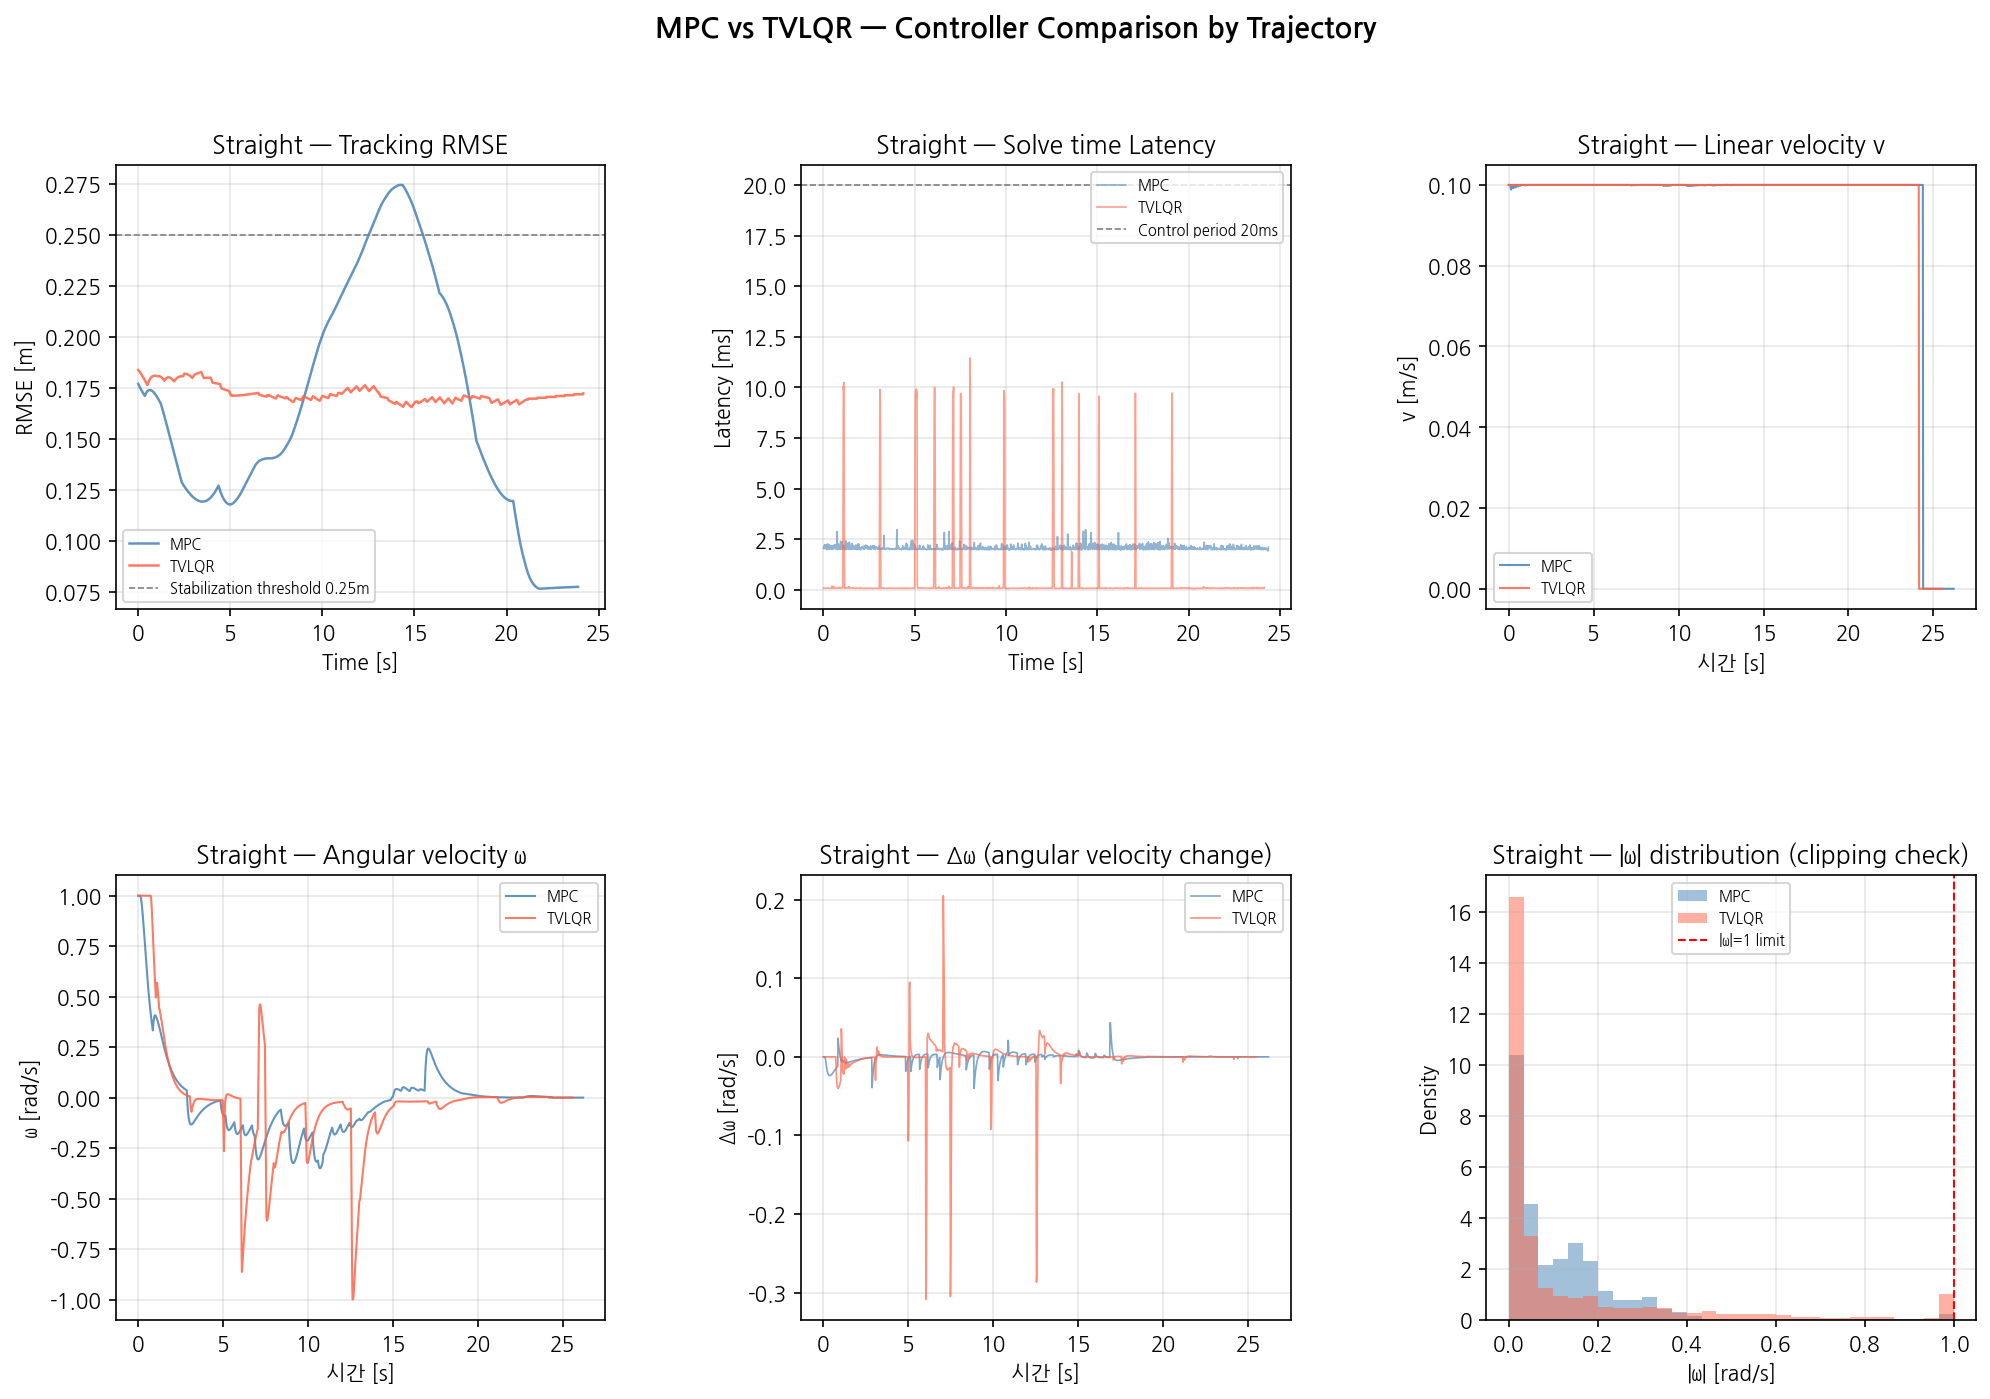
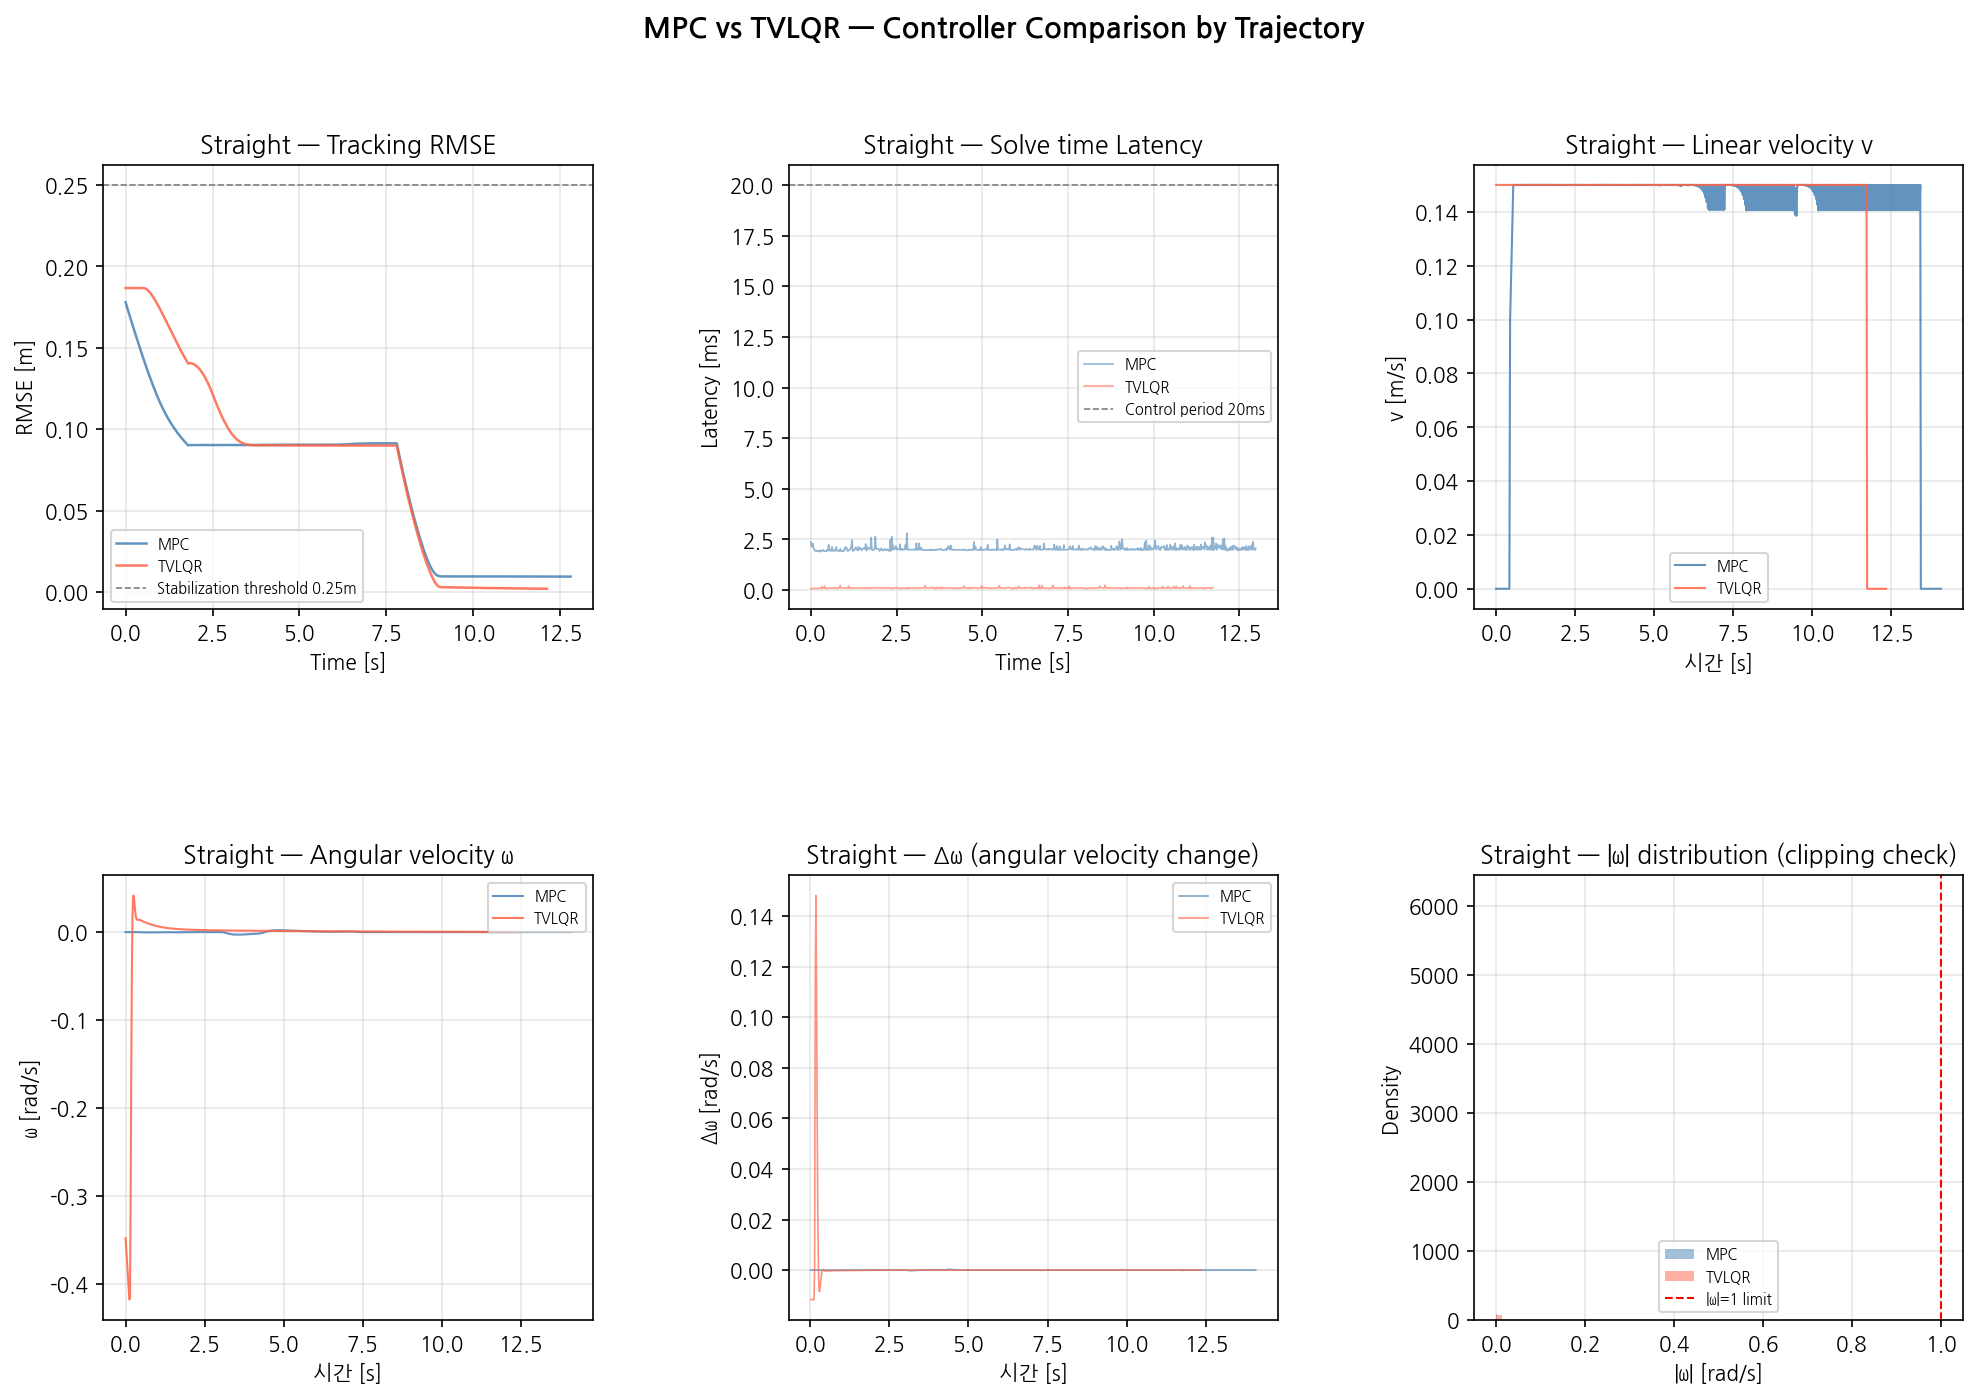
• 직선 경로 제어기 비교 실험 조건 및 지표 보정 - LQR 기본 최대 속도와 목표 도달 허용 오차를 MPC와 동일하게 조정 - MPC에 enable_docking 파라미터를 추가해 비교 실험 중 도킹 단계 비활성화 가능하도록 수정 - tracking_rmse_node에 /planned_path 기준 closest-point 오차 계산 모드 추가 - RMSE 안정화 시간이 0초일 때 “미달”로 출력되던 분석 스크립트 버그 수정 - 보정된 path-error 기준으로 직선 MPC vs TVLQR 비교 실험 재수행

diff --git a/src/control_mpc/src/tracking_rmse_node.cpp b/src/control_mpc/src/tracking_rmse_node.cpp
@@ -1,13 +1,18 @@
 #include <rclcpp/rclcpp.hpp>
 #include <tf2_msgs/msg/tf_message.hpp>
 #include <geometry_msgs/msg/pose_stamped.hpp>
+#include <nav_msgs/msg/path.hpp>
 #include <amr_msgs/msg/pose_rmse.hpp>
 #include <tf2/LinearMath/Quaternion.h>
 #include <tf2/utils.h>
 
+#include <algorithm>
 #include <cmath>
 #include <deque>
+#include <limits>
 #include <string>
+#include <utility>
+#include <vector>
 
 // ============================================================
 // tracking_rmse_node.cpp — MPC 추종 오차 실시간 계산 노드
@@ -70,6 +75,11 @@ public:
     this->declare_parameter<std::string>("robot_name", "amr_robot");
     robot_name_ = this->get_parameter("robot_name").as_string();
 
+    // true이면 controller별 reference_pose 대신 공통 /planned_path에 대한
+    // closest-point error를 계산한다. MPC/LQR 비교 실험에서 공정한 지표로 사용.
+    this->declare_parameter<bool>("use_path_error", false);
+    use_path_error_ = this->get_parameter("use_path_error").as_bool();
+
     auto reliable_qos = rclcpp::QoS(10).reliable();
     auto sensor_qos   = rclcpp::SensorDataQoS();
 
@@ -100,6 +110,12 @@ public:
       std::bind(&TrackingRmseNode::refCallback, this, std::placeholders::_1)
     );
 
+    path_sub_ = this->create_subscription<nav_msgs::msg::Path>(
+      "/planned_path",
+      reliable_qos,
+      std::bind(&TrackingRmseNode::pathCallback, this, std::placeholders::_1)
+    );
+
     // 추종 오차 발행 (/metrics/tracking_rmse)
     // amr_msgs/PoseRmse 재사용: rmse_x, rmse_y, rmse_yaw, rmse_total
     rmse_pub_ = this->create_publisher<amr_msgs::msg::PoseRmse>(
@@ -115,10 +131,82 @@ public:
     RCLCPP_INFO(this->get_logger(),
       "[TrackingRmseNode] Ref: /mpc/reference_pose");
     RCLCPP_INFO(this->get_logger(),
+      "[TrackingRmseNode] Path error mode: %s", use_path_error_ ? "ON" : "OFF");
+    RCLCPP_INFO(this->get_logger(),
       "[TrackingRmseNode] 발행: /metrics/tracking_rmse");
   }
 
 private:
+  void pathCallback(const nav_msgs::msg::Path::SharedPtr msg)
+  {
+    std::vector<std::pair<double, double>> pts;
+    pts.reserve(msg->poses.size());
+    for (const auto & pose : msg->poses) {
+      pts.emplace_back(pose.pose.position.x, pose.pose.position.y);
+    }
+
+    if (pts.empty()) {
+      return;
+    }
+
+    path_points_ = std::move(pts);
+    has_path_ = true;
+
+    RCLCPP_INFO_THROTTLE(this->get_logger(), *this->get_clock(), 3000,
+      "[TrackingRmseNode] /planned_path 수신: %zu pts", path_points_.size());
+  }
+
+  bool closestPathPose(double x, double y, double & ref_x, double & ref_y, double & ref_yaw)
+  {
+    if (!has_path_ || path_points_.empty()) {
+      return false;
+    }
+
+    if (path_points_.size() == 1) {
+      ref_x = path_points_[0].first;
+      ref_y = path_points_[0].second;
+      ref_yaw = gt_yaw_;
+      return true;
+    }
+
+    double best_d2 = std::numeric_limits<double>::infinity();
+    double best_x = path_points_[0].first;
+    double best_y = path_points_[0].second;
+    double best_yaw = gt_yaw_;
+
+    for (size_t i = 0; i + 1 < path_points_.size(); ++i) {
+      const double x1 = path_points_[i].first;
+      const double y1 = path_points_[i].second;
+      const double x2 = path_points_[i + 1].first;
+      const double y2 = path_points_[i + 1].second;
+      const double sx = x2 - x1;
+      const double sy = y2 - y1;
+      const double len2 = sx * sx + sy * sy;
+      if (len2 < 1e-12) {
+        continue;
+      }
+
+      const double t = std::clamp(((x - x1) * sx + (y - y1) * sy) / len2, 0.0, 1.0);
+      const double px = x1 + t * sx;
+      const double py = y1 + t * sy;
+      const double dx = x - px;
+      const double dy = y - py;
+      const double d2 = dx * dx + dy * dy;
+
+      if (d2 < best_d2) {
+        best_d2 = d2;
+        best_x = px;
+        best_y = py;
+        best_yaw = std::atan2(sy, sx);
+      }
+    }
+
+    ref_x = best_x;
+    ref_y = best_y;
+    ref_yaw = best_yaw;
+    return std::isfinite(best_d2);
+  }
+
   // --------------------------------------------------------
   // Ground Truth 콜백
   // TFMessage 배열에서 amr_robot 항목을 찾아 위치/yaw 캐싱.  
@@ -185,18 +273,28 @@ private:
     // 오차 계산 시 atan2(sin, cos) 정규화로 처리하므로 문제없음.
     const double ref_yaw = tf2::getYaw(ref_q);
 
+    double eval_ref_x = ref_x;
+    double eval_ref_y = ref_y;
+    double eval_ref_yaw = ref_yaw;
+    if (use_path_error_) {
+      if (!closestPathPose(gt_x_, gt_y_, eval_ref_x, eval_ref_y, eval_ref_yaw)) {
+        RCLCPP_WARN_THROTTLE(this->get_logger(), *this->get_clock(), 3000,
+          "[TrackingRmseNode] use_path_error=true이나 /planned_path 미수신. reference_pose 기준으로 fallback.");
+      }
+    }
+
     // --- 오차 계산 ---
-    // GT (실제 위치) - Reference (목표 위치)
-    // 부호 방향: 양수 = GT가 ref보다 앞서 있음
-    const double err_x = gt_x_ - ref_x;
-    const double err_y = gt_y_ - ref_y;
+    // 기본: GT - controller reference
+    // use_path_error=true: GT - /planned_path 위 closest point
+    const double err_x = gt_x_ - eval_ref_x;
+    const double err_y = gt_y_ - eval_ref_y;
 
     // yaw 오차: [-π, π] 범위로 정규화
     // [왜 atan2(sin, cos) 트릭?]
     //   단순 빼기만 하면 -2π ~ 2π 범위가 됨.
     //   예: gt=170°, ref=-170° → 단순 차이=340° (실제는 -20°)
     //   atan2(sin(diff), cos(diff))는 항상 -π ~ π로 정규화
-    const double raw_diff = gt_yaw_ - ref_yaw;
+    const double raw_diff = gt_yaw_ - eval_ref_yaw;
     const double err_yaw  = std::atan2(std::sin(raw_diff), std::cos(raw_diff));
 
     // 2D 유클리드 위치 오차 (방향 무관한 거리)
@@ -259,6 +357,7 @@ private:
   // --- ROS2 인터페이스 ---
   rclcpp::Subscription<tf2_msgs::msg::TFMessage>::SharedPtr              gt_sub_;
   rclcpp::Subscription<geometry_msgs::msg::PoseStamped>::SharedPtr       ref_sub_;
+  rclcpp::Subscription<nav_msgs::msg::Path>::SharedPtr                   path_sub_;
   rclcpp::Publisher<amr_msgs::msg::PoseRmse>::SharedPtr                  rmse_pub_;
 
   // --- Ground Truth 캐시 ---
@@ -274,6 +373,9 @@ private:
   int         sample_count_;
   int         window_size_;
   std::string robot_name_;
+  bool        use_path_error_ = false;
+  bool        has_path_ = false;
+  std::vector<std::pair<double, double>> path_points_;
 
   // --- 슬라이딩 윈도우 버퍼 (오차² 저장) ---
   std::deque<double> buf_x_;

diff --git a/src/control_mpc/src/mpc_node.cpp b/src/control_mpc/src/mpc_node.cpp
@@ -49,6 +49,7 @@ MpcNode::MpcNode(const rclcpp::NodeOptions & options)
   // true: path_planner_node의 /planned_path 수신 후 제어 시작
   // false: 기존 hardcoded 경로(trajectory_type) 사용 (하위호환)
   this->declare_parameter("use_global_planner", false);
+  this->declare_parameter("enable_docking", true);
 
   // 도킹 관련 파라미터 선언
   // dock_yaw: 도킹 목표 헤딩 [rad] — 예) 1.5708 = 90° (좌측 도킹)
@@ -77,6 +78,7 @@ MpcNode::MpcNode(const rclcpp::NodeOptions & options)
   slip_ratio_       = this->get_parameter("slip_ratio").as_double();
   artificial_load_ms_ = this->get_parameter("artificial_load_ms").as_double();
   use_global_planner_ = this->get_parameter("use_global_planner").as_bool();
+  enable_docking_ = this->get_parameter("enable_docking").as_bool();
 
   // 도킹 파라미터 로드
   dock_yaw_     = this->get_parameter("dock_yaw").as_double();
@@ -565,6 +567,12 @@ void MpcNode::controlCallback()
   // ── NAVIGATING → DOCKING 전환 ──────────────────────────────
   // A* 경로의 마지막 waypoint 도달(mission_done_) 시 정지 대신 DOCKING 진입
   // dock_x_, dock_y_를 마지막 waypoint 위치(= path_planner의 goal)로 확정
+  if (!enable_docking_ && local_mission_done) {
+    mission_phase_ = MissionPhase::DOCKED;
+    publishStop();
+    return;
+  }
+
   if (mission_phase_ == MissionPhase::NAVIGATING && local_mission_done) {
     {
       std::lock_guard<std::mutex> lock(state_mutex_);

diff --git a/src/control_lqr/src/lqr_node.cpp b/src/control_lqr/src/lqr_node.cpp
@@ -26,7 +26,7 @@ LqrNode::LqrNode(const rclcpp::NodeOptions & options)
   this->declare_parameter("r_dw",   5.0);
 
   // 속도 제한 (MPC와 동일 기본값)
-  this->declare_parameter("v_max",   0.5);
+  this->declare_parameter("v_max",   0.15);
   this->declare_parameter("v_min",  -0.1);
   this->declare_parameter("w_max",   1.0);
   this->declare_parameter("w_min",  -1.0);
@@ -37,7 +37,7 @@ LqrNode::LqrNode(const rclcpp::NodeOptions & options)
 
   // 경로/제어 파라미터
   this->declare_parameter("v_ref_",         0.1);
-  this->declare_parameter("goal_tolerance",  0.20);
+  this->declare_parameter("goal_tolerance",  0.15);
   this->declare_parameter("dt",             0.02);
 
   // 제어기 검증용 

diff --git a/tools/compare_trajectory.py b/tools/compare_trajectory.py
@@ -257,8 +257,8 @@ def print_table(traj_name: str, mpc_s: dict, lqr_s: dict):
     row("  최대 RMSE [m]",          "rmse_max",  "rmse_max")
     row("  RMSE 표준편차 [m]",      "rmse_std",  "rmse_std")
     print(fmt.format("  RMSE 안정화 시간 [s]",
-        f"{mpc_s['stab_time']:.2f}s" if mpc_s.get('stab_time') else "미달",
-        f"{lqr_s['stab_time']:.2f}s" if lqr_s and lqr_s.get('stab_time') else "미달"))
+        f"{mpc_s['stab_time']:.2f}s" if mpc_s.get('stab_time') is not None else "미달",
+        f"{lqr_s['stab_time']:.2f}s" if lqr_s and lqr_s.get('stab_time') is not None else "미달"))
     print(fmt.format("  RMSE 구간별 평균 (Q1/Q2/Q3/Q4)",
         "/".join(f"{mpc_s.get(f'rmse_q{i}',0):.3f}" for i in range(1,5)),
         "/".join(f"{lqr_s.get(f'rmse_q{i}',0):.3f}" for i in range(1,5)) if lqr_s else "N/A"))

diff --git a/src/safety/include/safety/qos_experiment_node.hpp b/src/safety/include/safety/qos_experiment_node.hpp
@@ -26,7 +26,7 @@
 //   파라미터 'reliability' = "reliable"    → RELIABLE QoS
 //   파라미터 'reliability' = "best_effort" → BEST_EFFORT QoS
 //   노드 실행 시 파라미터로 지정:
-//     ros2 run safety qos_experiment_node \
+//     ros2 run safety qos_experiment_node
 //       --ros-args -p reliability:=best_effort
 //
 // [발행 토픽]

diff --git a/src/control_mpc/include/control_mpc/mpc_node.hpp b/src/control_mpc/include/control_mpc/mpc_node.hpp
@@ -175,6 +175,7 @@ private:
   rclcpp::Subscription<nav_msgs::msg::Path>::SharedPtr path_sub_;
   void pathCallback(const nav_msgs::msg::Path::SharedPtr msg);
   bool use_global_planner_ = false;  // true: /planned_path 대기, false: 하드코딩 경로
+  bool enable_docking_ = true;       // false: 비교 실험에서 목표 도달 시 바로 정지
 
   // 긴급 정지용 — /cmd_vel_delayed 직접 발행 (mock_link 우회)
   rclcpp::Publisher<geometry_msgs::msg::Twist>::SharedPtr emergency_stop_pub_;